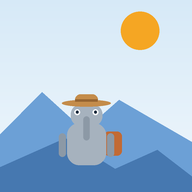
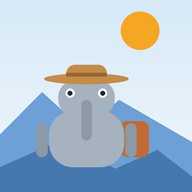
fix(frontend): ждун крупнее и листья через bottom вместо calc
Две правки по замечаниям с просмотра.

**Ждун был мелким.** Фигура занимала меньше трети высоты картинки,
и в кружке 32 px превращалась в пятно. Теперь она примерно половина
высоты: тело шире, голова и панама крупнее, рюкзак виден. Ширина фигуры
подобрана так, чтобы не вылезти за вписанную окружность — аватарка
круглая, углы обрезаются.

**Листья.** Стартовую позицию задавал через `top: calc(var(--top) - 8vh)`.
Работало, но это лишняя точка отказа: значение считает браузер,
и от того, как он обойдётся с calc от переменной, зависела видимость
всего слоя. Теперь позиция приходит готовой строкой в inline-стиле
(`bottom: calc(100% + 8vh - <top>vh)`), а анимация просто ведёт лист
на 108vh вниз. Меньше вычислений на стороне браузера — меньше поводов
не сработать.

Проверено замерами в настоящем Chrome: 18 листьев в DOM, 5–11 в кадре,
`anim: season-leaf-fall`, opacity 1.

Changed region(s): [[0.1875, 0.3125, 0.7812, 0.875]]

diff --git a/frontend/src/components/layout/SeasonDecor.vue b/frontend/src/components/layout/SeasonDecor.vue
@@ -159,7 +159,14 @@ const isAutumn = computed(() => appStore.currentTheme === 4)
       class="season-decor__leaf"
       :style="{
         '--left': `${leaf.left}%`,
-        '--top': `${leaf.top}vh`,
+        /*
+          Стартовое положение задаём через bottom, а не через top+calc:
+          так оно не зависит от того, как браузер посчитает calc от
+          переменной. Лист стоит на `top + 8vh` выше верхней кромки
+          (bottom: calc(100% + 8vh) при top: 0), дальше анимация ведёт
+          его на 108vh вниз.
+        */
+        bottom: `calc(100% + 8vh - ${leaf.top}vh)`,
         '--duration': `${leaf.duration}s`,
         '--delay': `${leaf.delay}s`,
         '--size': `${leaf.size}rem`,
@@ -206,13 +213,12 @@ const isAutumn = computed(() => appStore.currentTheme === 4)
 <style>
 .season-decor__leaf {
   /*
-    Стартовое положение — своё у каждого листа, задано в --top.
-    Анимация падения ведёт его на 108vh вниз от этой точки, а
-    отрицательная задержка ставит в середину пути: к первому кадру
-    листья уже разбросаны по всему экрану.
+    Стартовое положение — своё у каждого листа, задано inline через
+    bottom: `top + 8vh` выше верхней кромки. Анимация падения ведёт
+    лист на 108vh вниз, а отрицательная задержка ставит его в середину
+    пути: к первому кадру листья уже разбросаны по всему экрану.
   */
   position: absolute;
-  top: calc(var(--top) - 8vh);
   left: var(--left);
   width: var(--size);
   height: var(--size);

diff --git a/frontend/src/components/layout/SeasonDecor.spec.ts b/frontend/src/components/layout/SeasonDecor.spec.ts
@@ -119,12 +119,12 @@ describe('SeasonDecor', () => {
 
   it('стартовые позиции разные: листья не идут волной', async () => {
     const wrapper = await mountAutumn()
-    const tops = new Set(
+    const bottoms = new Set(
       wrapper
         .findAll('.season-decor__leaf')
-        .map((leaf) => leaf.attributes('style')?.match(/--top:\s*([\d.]+)vh/)?.[1]),
+        .map((leaf) => leaf.attributes('style')?.match(/bottom:\s*([^;]+)/)?.[1]),
     )
 
-    expect(tops.size).toBe(wrapper.findAll('.season-decor__leaf').length)
+    expect(bottoms.size).toBe(wrapper.findAll('.season-decor__leaf').length)
   })
 })

diff --git a/frontend/scripts/generate-assets.py b/frontend/scripts/generate-assets.py
@@ -181,25 +181,31 @@ def draw_avatar(size: int) -> Image.Image:
 
     # ─── ждун ───
     # Масштаб от размера картинки, поэтому силуэт читается и на 96 px.
+    #
+    # Размер подобран так, чтобы фигура занимала примерно половину
+    # высоты: в кружке 32 px мелкая фигурка превращается в еле заметное
+    # пятно. При этом важно не вылезти за вписанную окружность — аватарка
+    # круглая, и углы картинки обрезаются: фигура шириной 0.36 стороны
+    # помещается в круг с запасом даже с учётом панамы и рюкзака.
     scale = big / 512
     cx = big * 0.45
-    ground = big * 0.86  # опорная линия — «земля» под фигурой
+    ground = big * 0.87  # опорная линия — «земля» под фигурой
 
-    body_w = 104 * scale
-    body_h = 112 * scale
+    body_w = 200 * scale
+    body_h = 150 * scale
     body_top = ground - body_h
 
     # Рюкзак за спиной — рисуем первым, чтобы тело его перекрыло.
-    pack_w = 42 * scale
-    pack_h = 64 * scale
+    pack_w = 66 * scale
+    pack_h = 96 * scale
     d.rounded_rectangle(
         (
-            cx + body_w / 2 - 6 * scale,
-            body_top + body_h * 0.20,
+            cx + body_w / 2 - 10 * scale,
+            body_top + body_h * 0.18,
             cx + body_w / 2 + pack_w,
-            body_top + body_h * 0.20 + pack_h,
+            body_top + body_h * 0.18 + pack_h,
         ),
-        radius=int(13 * scale),
+        radius=int(20 * scale),
         fill=PACK,
     )
 
@@ -211,23 +217,23 @@ def draw_avatar(size: int) -> Image.Image:
     )
 
     # Руки: короткие, свисают по бокам.
-    arm_w = 19 * scale
+    arm_w = 30 * scale
     for side in (-1, 1):
         d.rounded_rectangle(
             (
-                cx + side * (body_w / 2 + arm_w * 0.65) - arm_w / 2,
-                body_top + body_h * 0.24,
-                cx + side * (body_w / 2 + arm_w * 0.65) + arm_w / 2,
-                body_top + body_h * 0.80,
+                cx + side * (body_w / 2 + arm_w * 0.62) - arm_w / 2,
+                body_top + body_h * 0.22,
+                cx + side * (body_w / 2 + arm_w * 0.62) + arm_w / 2,
+                body_top + body_h * 0.82,
             ),
             radius=int(arm_w * 0.5),
             fill=ZHDU_N_SHADE,
         )
 
     # Голова: сверху, чуть уже тела.
-    head_w = 84 * scale
-    head_h = 58 * scale
-    head_bottom = body_top + 8 * scale
+    head_w = 150 * scale
+    head_h = 92 * scale
+    head_bottom = body_top + 12 * scale
     d.rounded_rectangle(
         (cx - head_w / 2, head_bottom - head_h, cx + head_w / 2, head_bottom),
         radius=int(head_h * 0.46),
@@ -235,20 +241,20 @@ def draw_avatar(size: int) -> Image.Image:
     )
 
     # Хобот: от низа головы вниз, поверх тела.
-    trunk_w = 17 * scale
+    trunk_w = 28 * scale
     d.rounded_rectangle(
         (
             cx - trunk_w / 2,
             head_bottom - head_h * 0.45,
             cx + trunk_w / 2,
-            head_bottom + head_h * 0.65,
+            head_bottom + head_h * 0.72,
         ),
         radius=int(trunk_w * 0.5),
         fill=ZHDU_N_SHADE,
     )
 
     # Глаза по бокам головы.
-    eye_r = 7.5 * scale
+    eye_r = 12 * scale
     eye_y = head_bottom - head_h * 0.64
     for eye_x in (cx - head_w * 0.29, cx + head_w * 0.29):
         d.ellipse(
@@ -262,24 +268,24 @@ def draw_avatar(size: int) -> Image.Image:
         )
 
     # Панама: поля и тулья с лентой.
-    brim_w = head_w * 1.55
-    brim_y = head_bottom - head_h - 3 * scale
+    brim_w = head_w * 1.5
+    brim_y = head_bottom - head_h - 5 * scale
     d.ellipse(
-        (cx - brim_w / 2, brim_y - 9 * scale, cx + brim_w / 2, brim_y + 9 * scale),
+        (cx - brim_w / 2, brim_y - 14 * scale, cx + brim_w / 2, brim_y + 14 * scale),
         fill=PANAMA,
     )
     d.rounded_rectangle(
         (
             cx - head_w * 0.36,
-            brim_y - 24 * scale,
+            brim_y - 38 * scale,
             cx + head_w * 0.36,
-            brim_y + 5 * scale,
+            brim_y + 8 * scale,
         ),
-        radius=int(17 * scale),
+        radius=int(27 * scale),
         fill=PANAMA,
     )
     d.rectangle(
-        (cx - head_w * 0.36, brim_y - 10 * scale, cx + head_w * 0.36, brim_y - 4 * scale),
+        (cx - head_w * 0.36, brim_y - 16 * scale, cx + head_w * 0.36, brim_y - 7 * scale),
         fill=PANAMA_BAND,
     )
 
